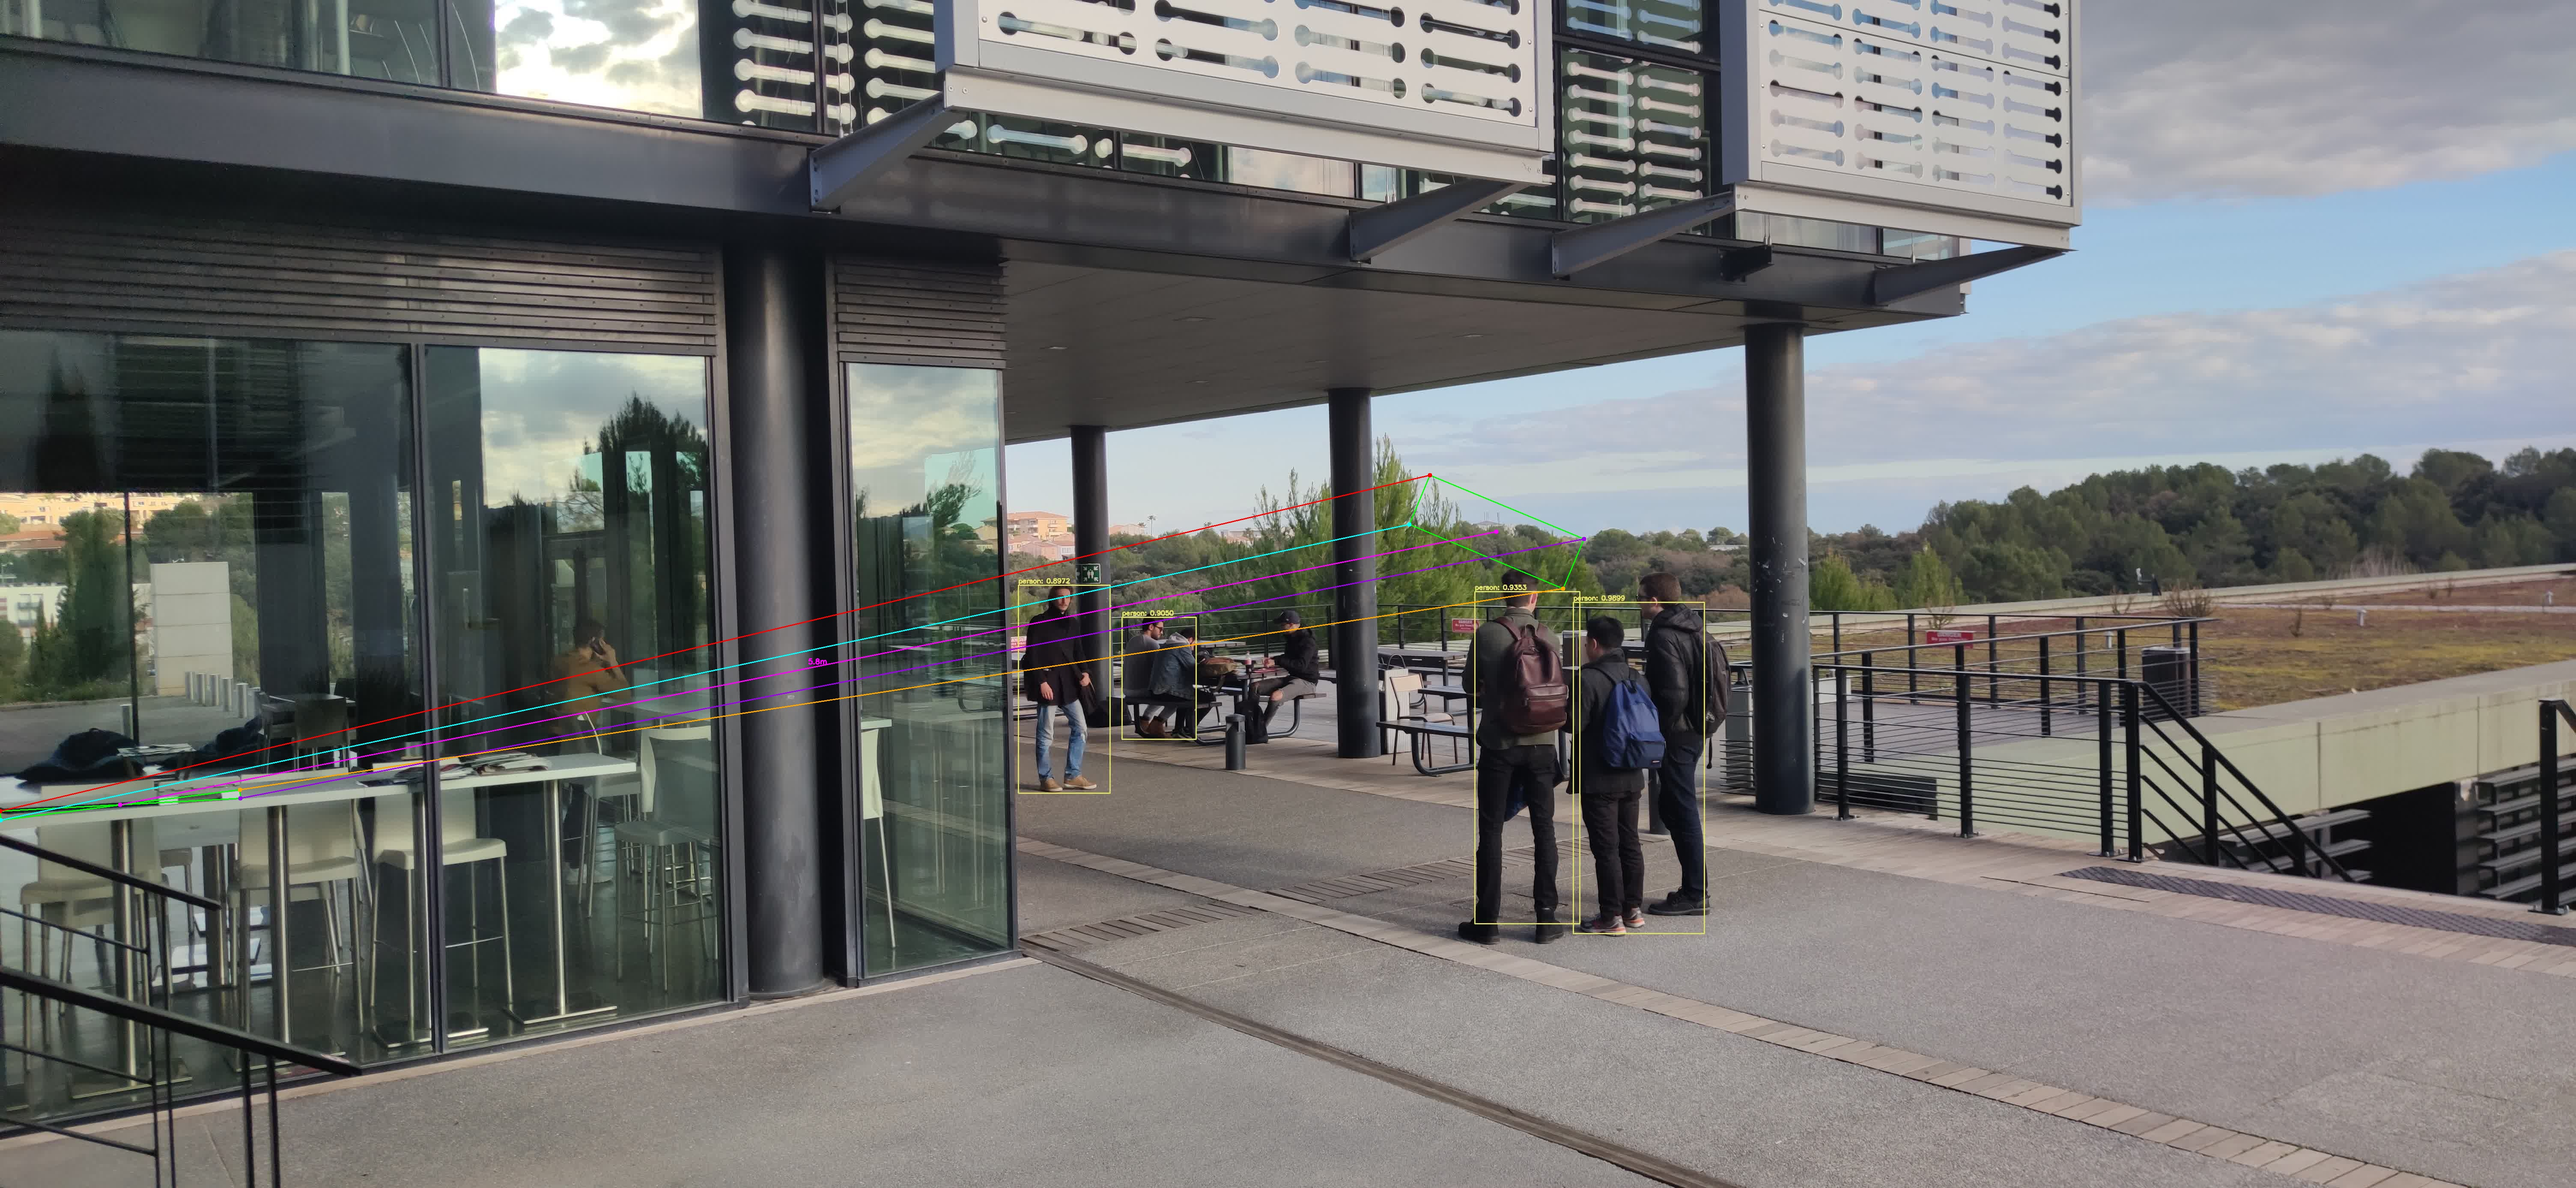
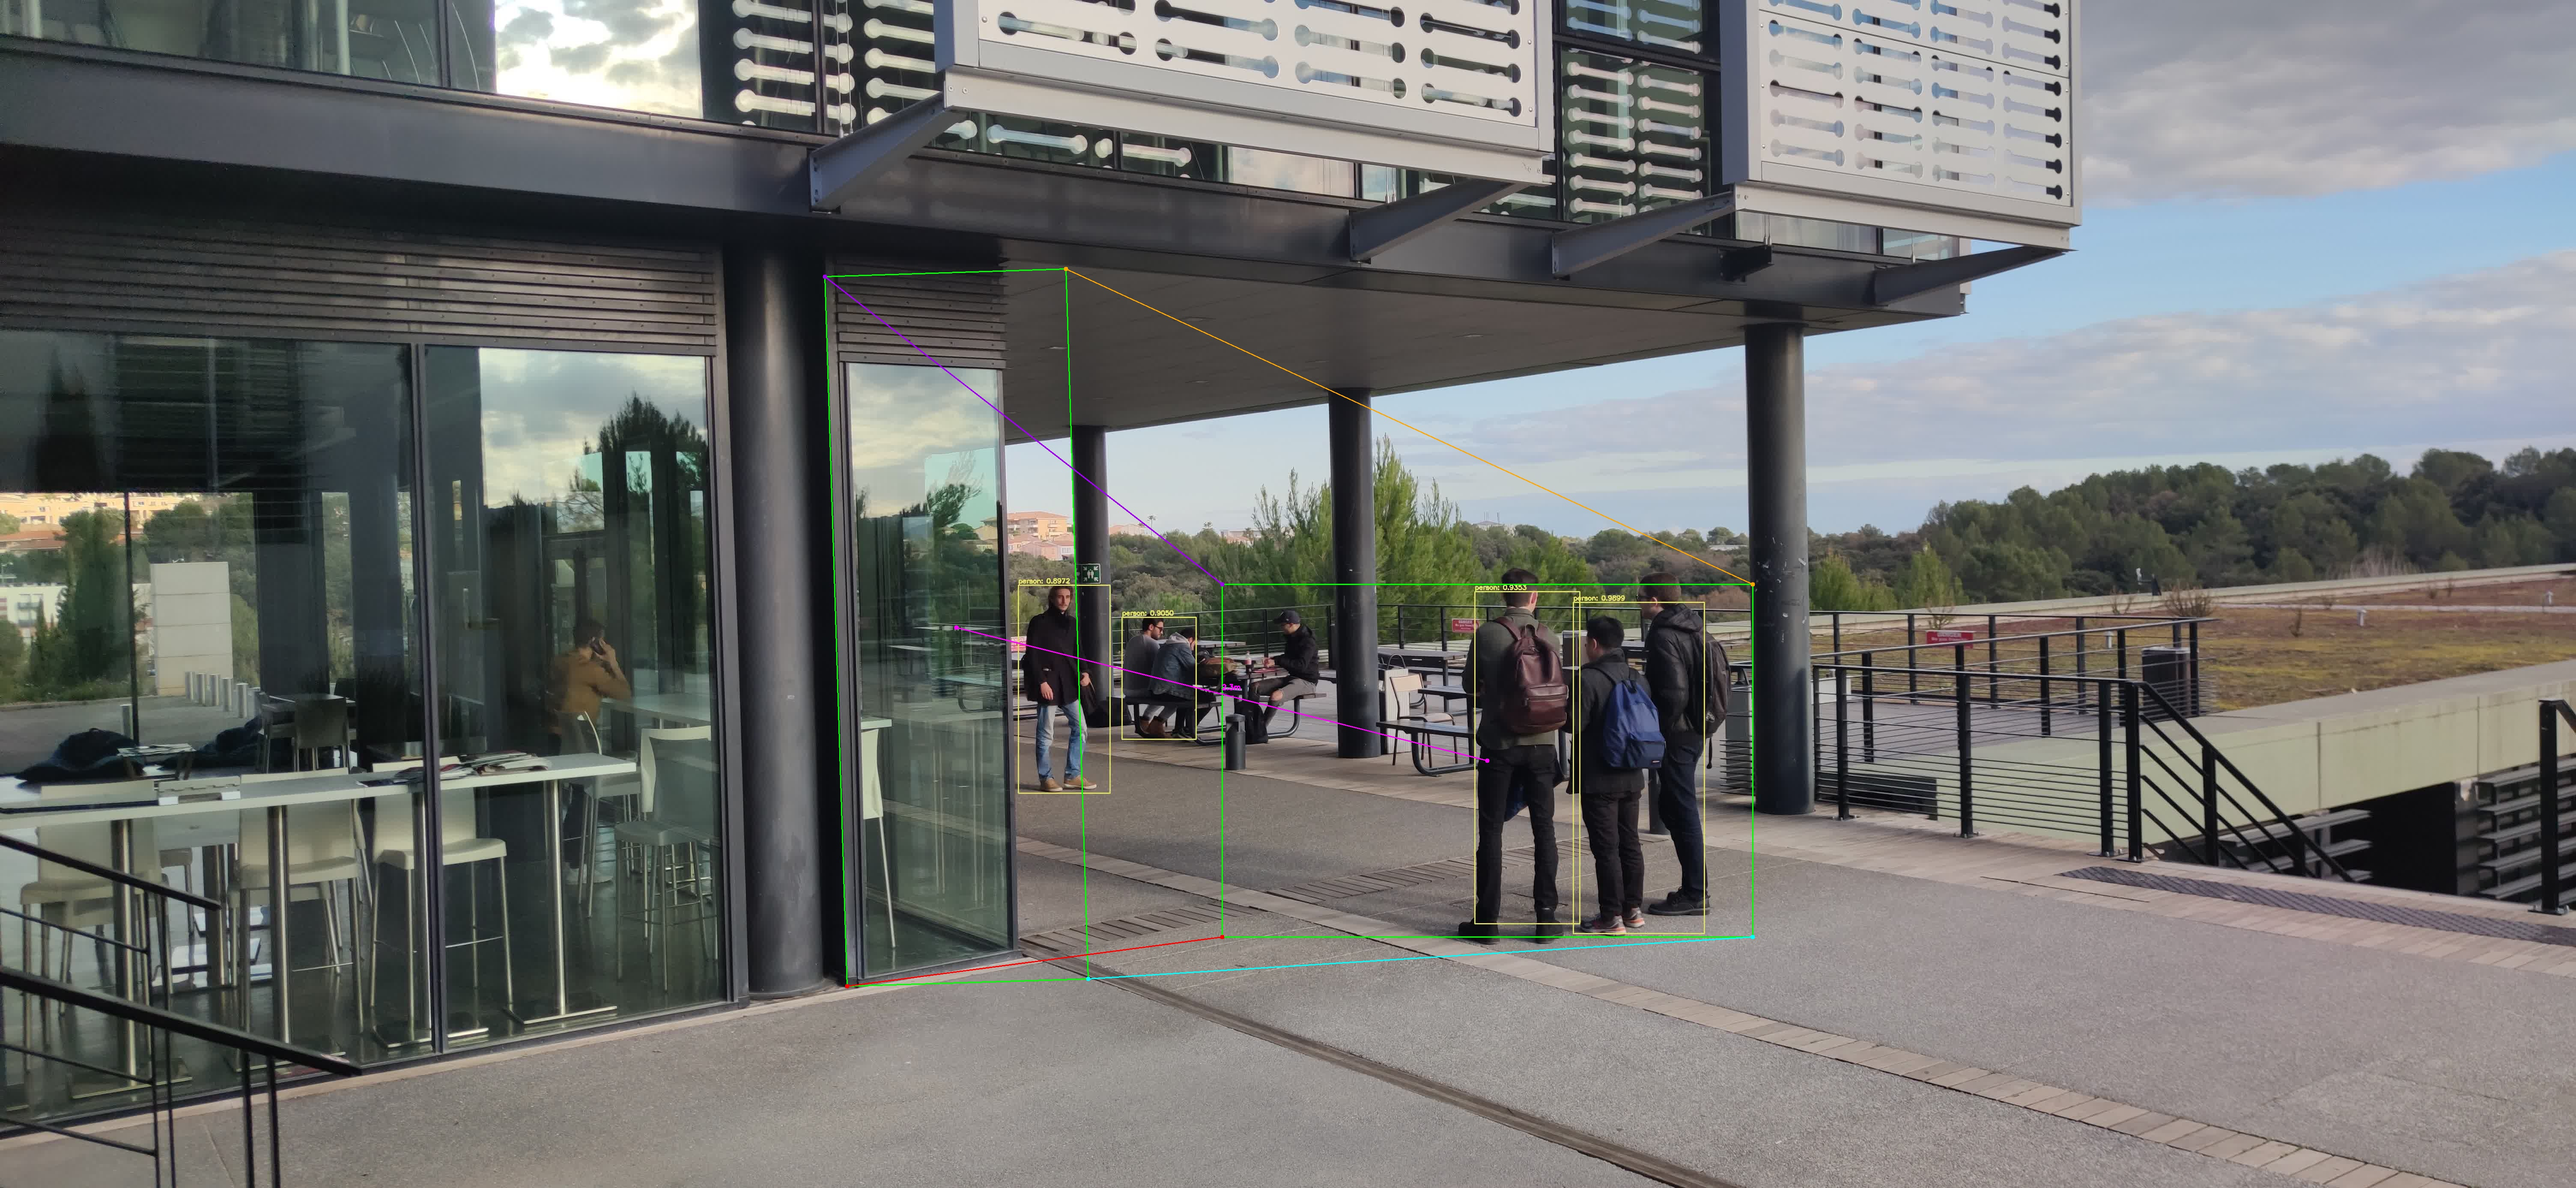
#22 modify some datas and get a example of calculate distance.

diff --git a/PNS-IHM-SD/Video Detection/yolo-object-detection/cal_dis_demo1.py b/PNS-IHM-SD/Video Detection/yolo-object-detection/cal_dis_demo1.py
@@ -7,7 +7,9 @@ import numpy as np
 import argparse
 import imutils
 import cv2
-
+import sys
+import time
+import os
 # calculate the location of the mid point 
 
 
@@ -50,7 +52,9 @@ refObj = None
 # 循环遍历每一个轮廓点
 for c in cnts:
     # 过滤点太小的轮廓点
-    if cv2.contourArea(c) < 2000:
+    print("this size:")
+    print(cv2.contourArea(c))
+    if cv2.contourArea(c) < 20000:
         continue
 
     # 计算最小的外接矩形
@@ -59,8 +63,8 @@ for c in cnts:
     box = np.array(box, dtype="int")
     
     # 对轮廓点进行排序
-    box = perspective.order_points(box)
-
+    #box = perspective.order_points(box)
+    
     # 计算BB的中心点
     cX = np.average(box[:, 0])
     cY = np.average(box[:, 1])
@@ -76,13 +80,14 @@ for c in cnts:
         D = dist.euclidean((tlblX, tlblY), (trbrX, trbrY))
         # 获取计算结果
         refObj = (box, (cX, cY), D / args["width"])
-        
+    
     
     # 绘制轮廓
     orig = image.copy()
     cv2.drawContours(orig, [box.astype("int")], -1, (0, 255, 0), 2)
     cv2.drawContours(orig, [refObj[0].astype("int")], -1, (0, 255, 0), 2)
     cv2.imwrite("orig.jpg",orig)
+    
     # 进行坐标堆叠
     refCoords = np.vstack([refObj[0], refObj[1]])
     objCoords = np.vstack([box, (cX, cY)])

diff --git a/PNS-IHM-SD/Video Detection/yolo-object-detection/yolo.py b/PNS-IHM-SD/Video Detection/yolo-object-detection/yolo.py
@@ -124,15 +124,14 @@ smith_a=0
 if len(idxs) > 0:
 	# loop over the indexes we are keeping
 	for i in idxs.flatten():
+		print(idxs.flatten)
 		if LABELS[classIDs[i]]=="person":
 			smith_a=smith_a+1
 
 
 # show the output image
 
-
-
-# print(smith_a)
+print(smith_a)
 sys.stdout.write(str(smith_a))
 sys.stdout.flush()
 
